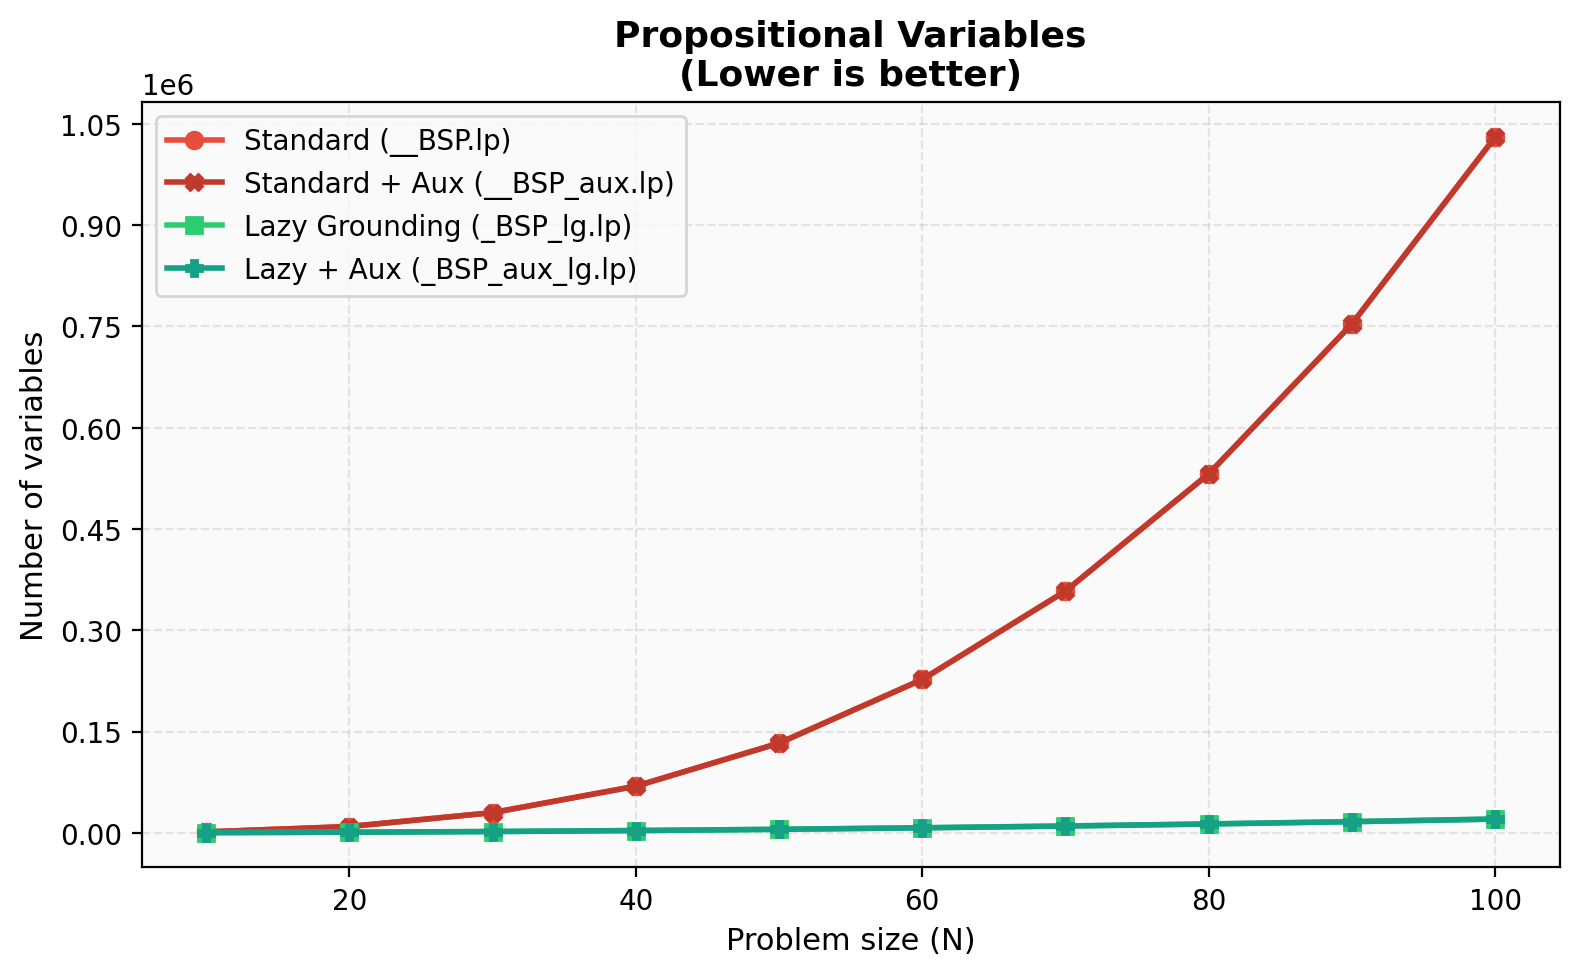
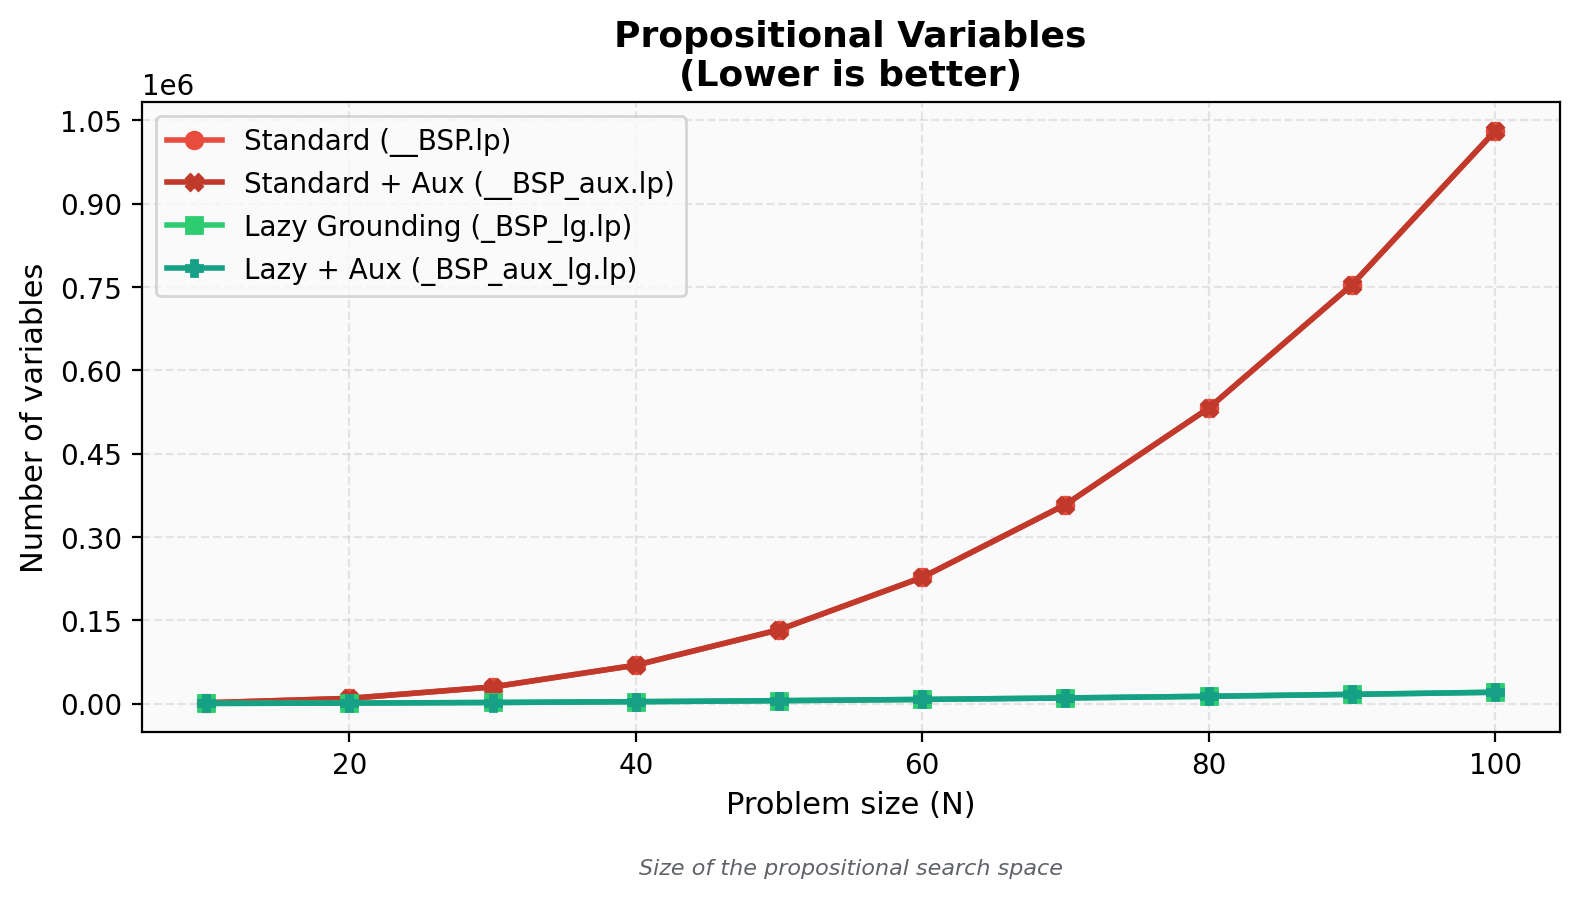
dai

diff --git a/test_folder/gen_graphs.py b/test_folder/gen_graphs.py
@@ -23,6 +23,7 @@ import csv
 import os
 import shutil
 import sys
+import textwrap
 from collections import defaultdict
 
 # ============================================================================
@@ -299,6 +300,84 @@ def compute_stats(raw):
 # ============================================================================
 
 VARIANT_FILL_ALPHA = 0.15
+CAPTION_COLOR = "#5F6368"
+SEPARATOR_COLOR = "#D6D6D6"
+
+
+def _add_axis_caption(ax, description: str, *, y: float, width: int, fontsize: int):
+    """Place the metric description below the plot area as a caption."""
+    caption = " ".join(description.split())
+    wrapped = textwrap.fill(caption, width=width)
+    ax.text(
+        0.5, y, wrapped,
+        transform=ax.transAxes,
+        fontsize=fontsize,
+        color=CAPTION_COLOR,
+        ha="center",
+        va="top",
+        fontstyle="italic",
+        clip_on=False,
+    )
+
+
+def _add_subplot_separators(fig, axes, n_plots: int):
+    """Draw thin separators between subplot cells in the combined chart."""
+    from matplotlib.lines import Line2D
+
+    active_axes = axes.flatten()[:n_plots]
+    if not active_axes.size:
+        return
+
+    fig.canvas.draw()
+    positions = [ax.get_position() for ax in active_axes]
+    y0 = min(pos.y0 for pos in positions)
+    y1 = max(pos.y1 for pos in positions)
+    x0 = min(pos.x0 for pos in positions)
+    x1 = max(pos.x1 for pos in positions)
+
+    n_rows, n_cols = axes.shape
+
+    for col in range(1, n_cols):
+        left_positions = [
+            axes[row, col - 1].get_position()
+            for row in range(n_rows)
+            if row * n_cols + (col - 1) < n_plots
+        ]
+        right_positions = [
+            axes[row, col].get_position()
+            for row in range(n_rows)
+            if row * n_cols + col < n_plots
+        ]
+        if not left_positions or not right_positions:
+            continue
+
+        x = (
+            max(pos.x1 for pos in left_positions) +
+            min(pos.x0 for pos in right_positions)
+        ) / 2.0
+        fig.add_artist(Line2D([x, x], [y0, y1], transform=fig.transFigure,
+                              color=SEPARATOR_COLOR, linewidth=0.8))
+
+    for row in range(1, n_rows):
+        upper_positions = [
+            axes[row - 1, col].get_position()
+            for col in range(n_cols)
+            if (row - 1) * n_cols + col < n_plots
+        ]
+        lower_positions = [
+            axes[row, col].get_position()
+            for col in range(n_cols)
+            if row * n_cols + col < n_plots
+        ]
+        if not upper_positions or not lower_positions:
+            continue
+
+        y = (
+            min(pos.y0 for pos in upper_positions) +
+            max(pos.y1 for pos in lower_positions)
+        ) / 2.0
+        fig.add_artist(Line2D([x0, x1], [y, y], transform=fig.transFigure,
+                              color=SEPARATOR_COLOR, linewidth=0.8))
 
 
 def _format_title(metric: str, title: str) -> str:
@@ -356,7 +435,7 @@ def generate_graphs(stats: dict, graphs_dir: str, theme: dict, title_suffix: str
     n_cols = 2
     n_rows = (n_plots + n_cols - 1) // n_cols
 
-    fig, axes = plt.subplots(n_rows, n_cols, figsize=(14, 4.4 * n_rows))
+    fig, axes = plt.subplots(n_rows, n_cols, figsize=(14, 4.8 * n_rows))
     axes_flat = axes.flatten()
 
     variants = _ordered_variants(stats, theme)
@@ -397,9 +476,7 @@ def generate_graphs(stats: dict, graphs_dir: str, theme: dict, title_suffix: str
         if metric in INTEGER_METRICS:
             ax.yaxis.set_major_locator(MaxNLocator(integer=True))
 
-        ax.text(0.98, 0.02, config["description"],
-                transform=ax.transAxes, fontsize=7, color="#666",
-                ha="right", va="bottom", fontstyle="italic")
+        _add_axis_caption(ax, config["description"], y=-0.27, width=64, fontsize=7)
 
         if not has_data:
             ax.text(0.5, 0.5, "No data", transform=ax.transAxes,
@@ -414,7 +491,8 @@ def generate_graphs(stats: dict, graphs_dir: str, theme: dict, title_suffix: str
     suptitle += f"\n(mean ± σ over {_detect_seeds(stats)} seeds per point)"
 
     fig.suptitle(suptitle, fontsize=14, fontweight="bold", y=0.98)
-    plt.tight_layout(rect=[0, 0, 1, 0.96])
+    plt.tight_layout(rect=[0, 0.01, 1, 0.955], h_pad=3.4, w_pad=3.0)
+    _add_subplot_separators(fig, axes, n_plots)
 
     suffix = f"_{title_suffix.lower().replace(' ', '_')}" if title_suffix else ""
     out_path = os.path.join(graphs_dir, f"benchmark_results{suffix}.png")
@@ -432,6 +510,7 @@ def generate_graphs(stats: dict, graphs_dir: str, theme: dict, title_suffix: str
             metric=cfg["metric"],
             title=_format_title(cfg["metric"], cfg["title"]),
             ylabel=cfg["ylabel"],
+            description=cfg["description"],
             filename=fname,
             theme=theme,
             xlabel=xlabel,
@@ -453,7 +532,7 @@ def generate_graphs(stats: dict, graphs_dir: str, theme: dict, title_suffix: str
     _generate_heuristic_reduction_chart(stats, graphs_dir, heuristic_baseline, theme, reduction_fname, xlabel)
 
 
-def _generate_single_chart(stats, graphs_dir, metric, title, ylabel, filename, theme, xlabel):
+def _generate_single_chart(stats, graphs_dir, metric, title, ylabel, description, filename, theme, xlabel):
     """Generate a single chart for one metric."""
     try:
         import matplotlib.pyplot as plt
@@ -468,6 +547,7 @@ def _generate_single_chart(stats, graphs_dir, metric, title, ylabel, filename, t
 
     fig, ax = plt.subplots(figsize=(8, 5))
     variants = _ordered_variants(stats, theme)
+    has_data = False
 
     for variant in variants:
         if metric not in stats[variant]:
@@ -476,6 +556,7 @@ def _generate_single_chart(stats, graphs_dir, metric, title, ylabel, filename, t
         if not data["n"]:
             continue
 
+        has_data = True
         n = np.array(data["n"])
         mean = np.array(data["mean"])
         std = np.array(data["std"])
@@ -492,12 +573,18 @@ def _generate_single_chart(stats, graphs_dir, metric, title, ylabel, filename, t
     ax.set_title(title, fontsize=13, fontweight="bold")
     ax.set_xlabel(xlabel, fontsize=11)
     ax.set_ylabel(ylabel, fontsize=11)
-    ax.legend(fontsize=10)
+    if has_data:
+        ax.legend(fontsize=10)
+    else:
+        ax.text(0.5, 0.5, "No data", transform=ax.transAxes,
+                ha="center", va="center", fontsize=13, color="#AAA")
     ax.grid(True, alpha=0.3, linestyle="--")
     if metric in INTEGER_METRICS:
         ax.yaxis.set_major_locator(MaxNLocator(integer=True))
 
-    plt.tight_layout()
+    _add_axis_caption(ax, description, y=-0.20, width=88, fontsize=8)
+
+    plt.tight_layout(rect=[0, 0.05, 1, 1])
     out_path = os.path.join(graphs_dir, filename)
     plt.savefig(out_path, dpi=200, bbox_inches="tight")
     plt.close()
